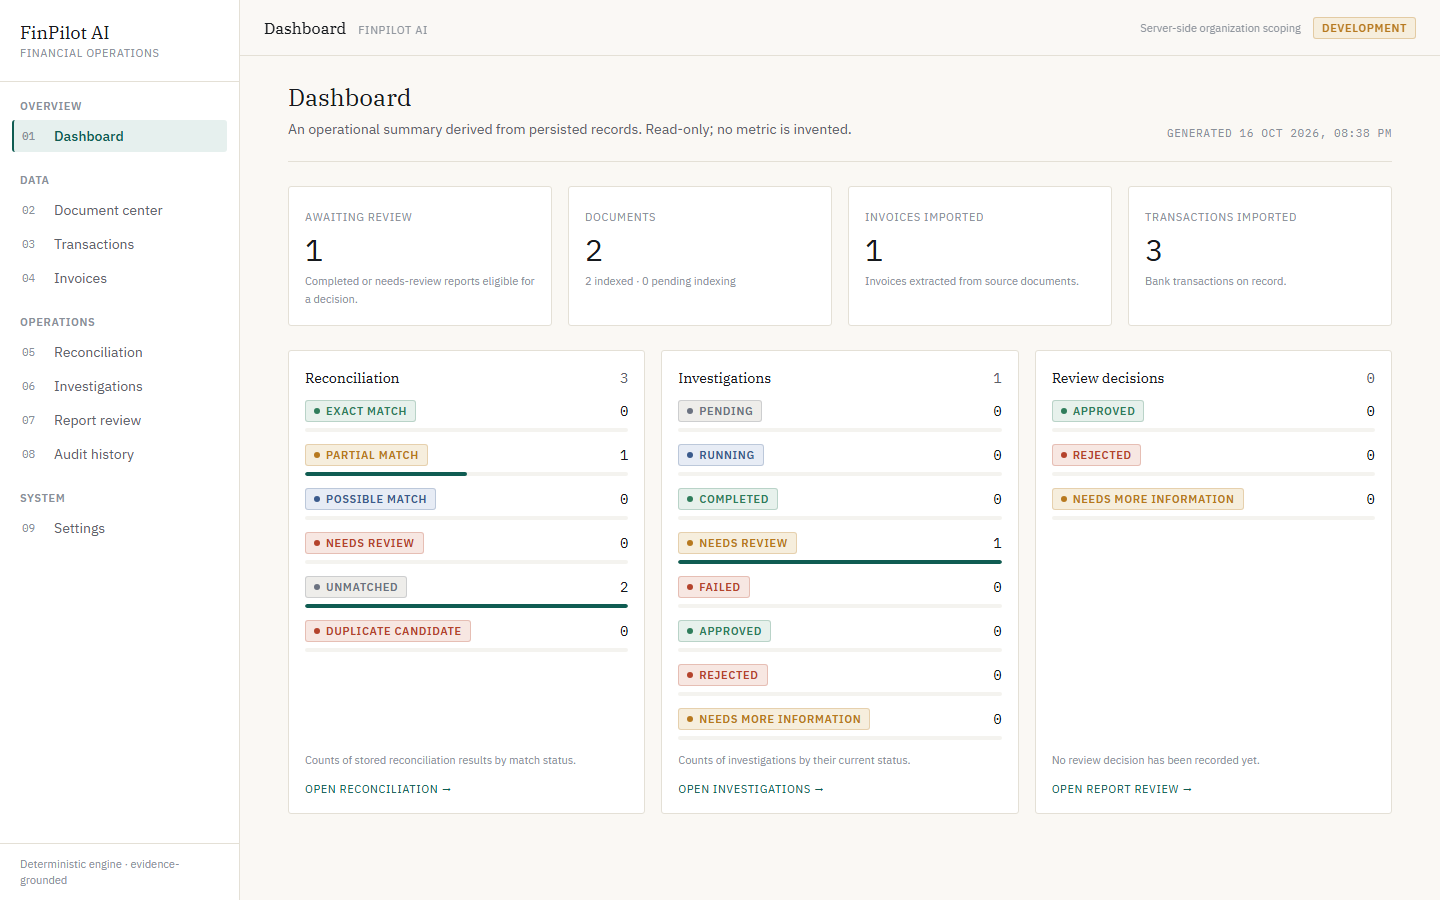
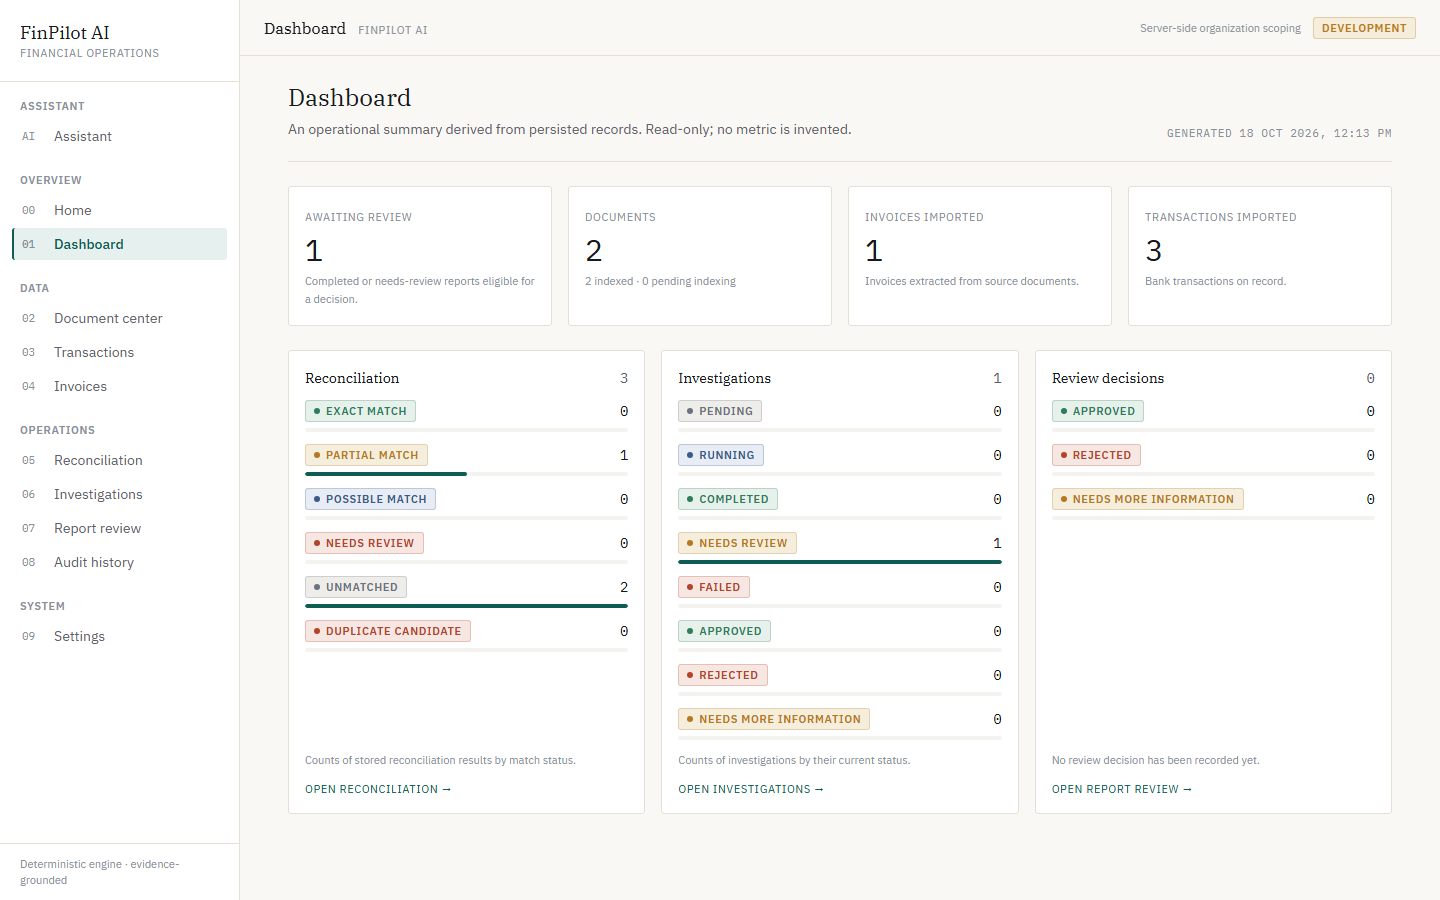
docs: regenerate README screenshots and add assistant capture

diff --git a/frontend/tests/integration/screenshots.spec.ts b/frontend/tests/integration/screenshots.spec.ts
@@ -42,6 +42,25 @@ async function capture(page: Page, name: string) {
   })
 }
 
+test('assistant', async ({ page }) => {
+  await page.goto('/assistant')
+  await expect(page.getByRole('heading', { name: 'Assistant' })).toBeVisible()
+  await page.getByRole('button', { name: 'New conversation' }).click()
+  await expect(
+    page.getByText(
+      'This conversation is empty. Ask a question below to get started.',
+    ),
+  ).toBeVisible()
+  const composer = page.getByPlaceholder(/Ask about a document/)
+  await expect(composer).toBeEnabled()
+  await composer.fill('Which transactions are unmatched?')
+  await page.getByRole('button', { name: 'Send' }).click()
+  await expect(
+    page.getByRole('article').getByText('Completed', { exact: true }),
+  ).toBeVisible({ timeout: 60_000 })
+  await capture(page, 'assistant')
+})
+
 test('dashboard', async ({ page }) => {
   await page.goto('/dashboard')
   await expect(page.getByRole('heading', { name: 'Dashboard' })).toBeVisible()

diff --git a/README.md b/README.md
@@ -90,21 +90,21 @@ financial records**. The AI only reads evidence and drafts a report for a human.
 
 ## Screenshots
 
-| Dashboard | Document center |
+| Assistant | Dashboard |
 | --- | --- |
-| ![Dashboard](docs/screenshots/dashboard.png) | ![Document center](docs/screenshots/documents.png) |
+| ![Assistant](docs/screenshots/assistant.png) | ![Dashboard](docs/screenshots/dashboard.png) |
 
-| Reconciliation | Investigation report |
+| Document center | Reconciliation |
 | --- | --- |
-| ![Reconciliation](docs/screenshots/reconciliation.png) | ![Investigation](docs/screenshots/investigation-detail.png) |
+| ![Document center](docs/screenshots/documents.png) | ![Reconciliation](docs/screenshots/reconciliation.png) |
 
-| Investigations queue | Report review |
+| Investigation report | Investigations queue |
 | --- | --- |
-| ![Investigations](docs/screenshots/investigations.png) | ![Review](docs/screenshots/review-detail.png) |
+| ![Investigation](docs/screenshots/investigation-detail.png) | ![Investigations](docs/screenshots/investigations.png) |
 
-| Audit history |
-| --- |
-| ![Audit history](docs/screenshots/audit.png) |
+| Report review | Audit history |
+| --- | --- |
+| ![Review](docs/screenshots/review-detail.png) | ![Audit history](docs/screenshots/audit.png) |
 
 > Screenshots are generated from the live, seeded app by
 > `frontend/tests/integration/screenshots.spec.ts` (see [Testing](#testing)).
